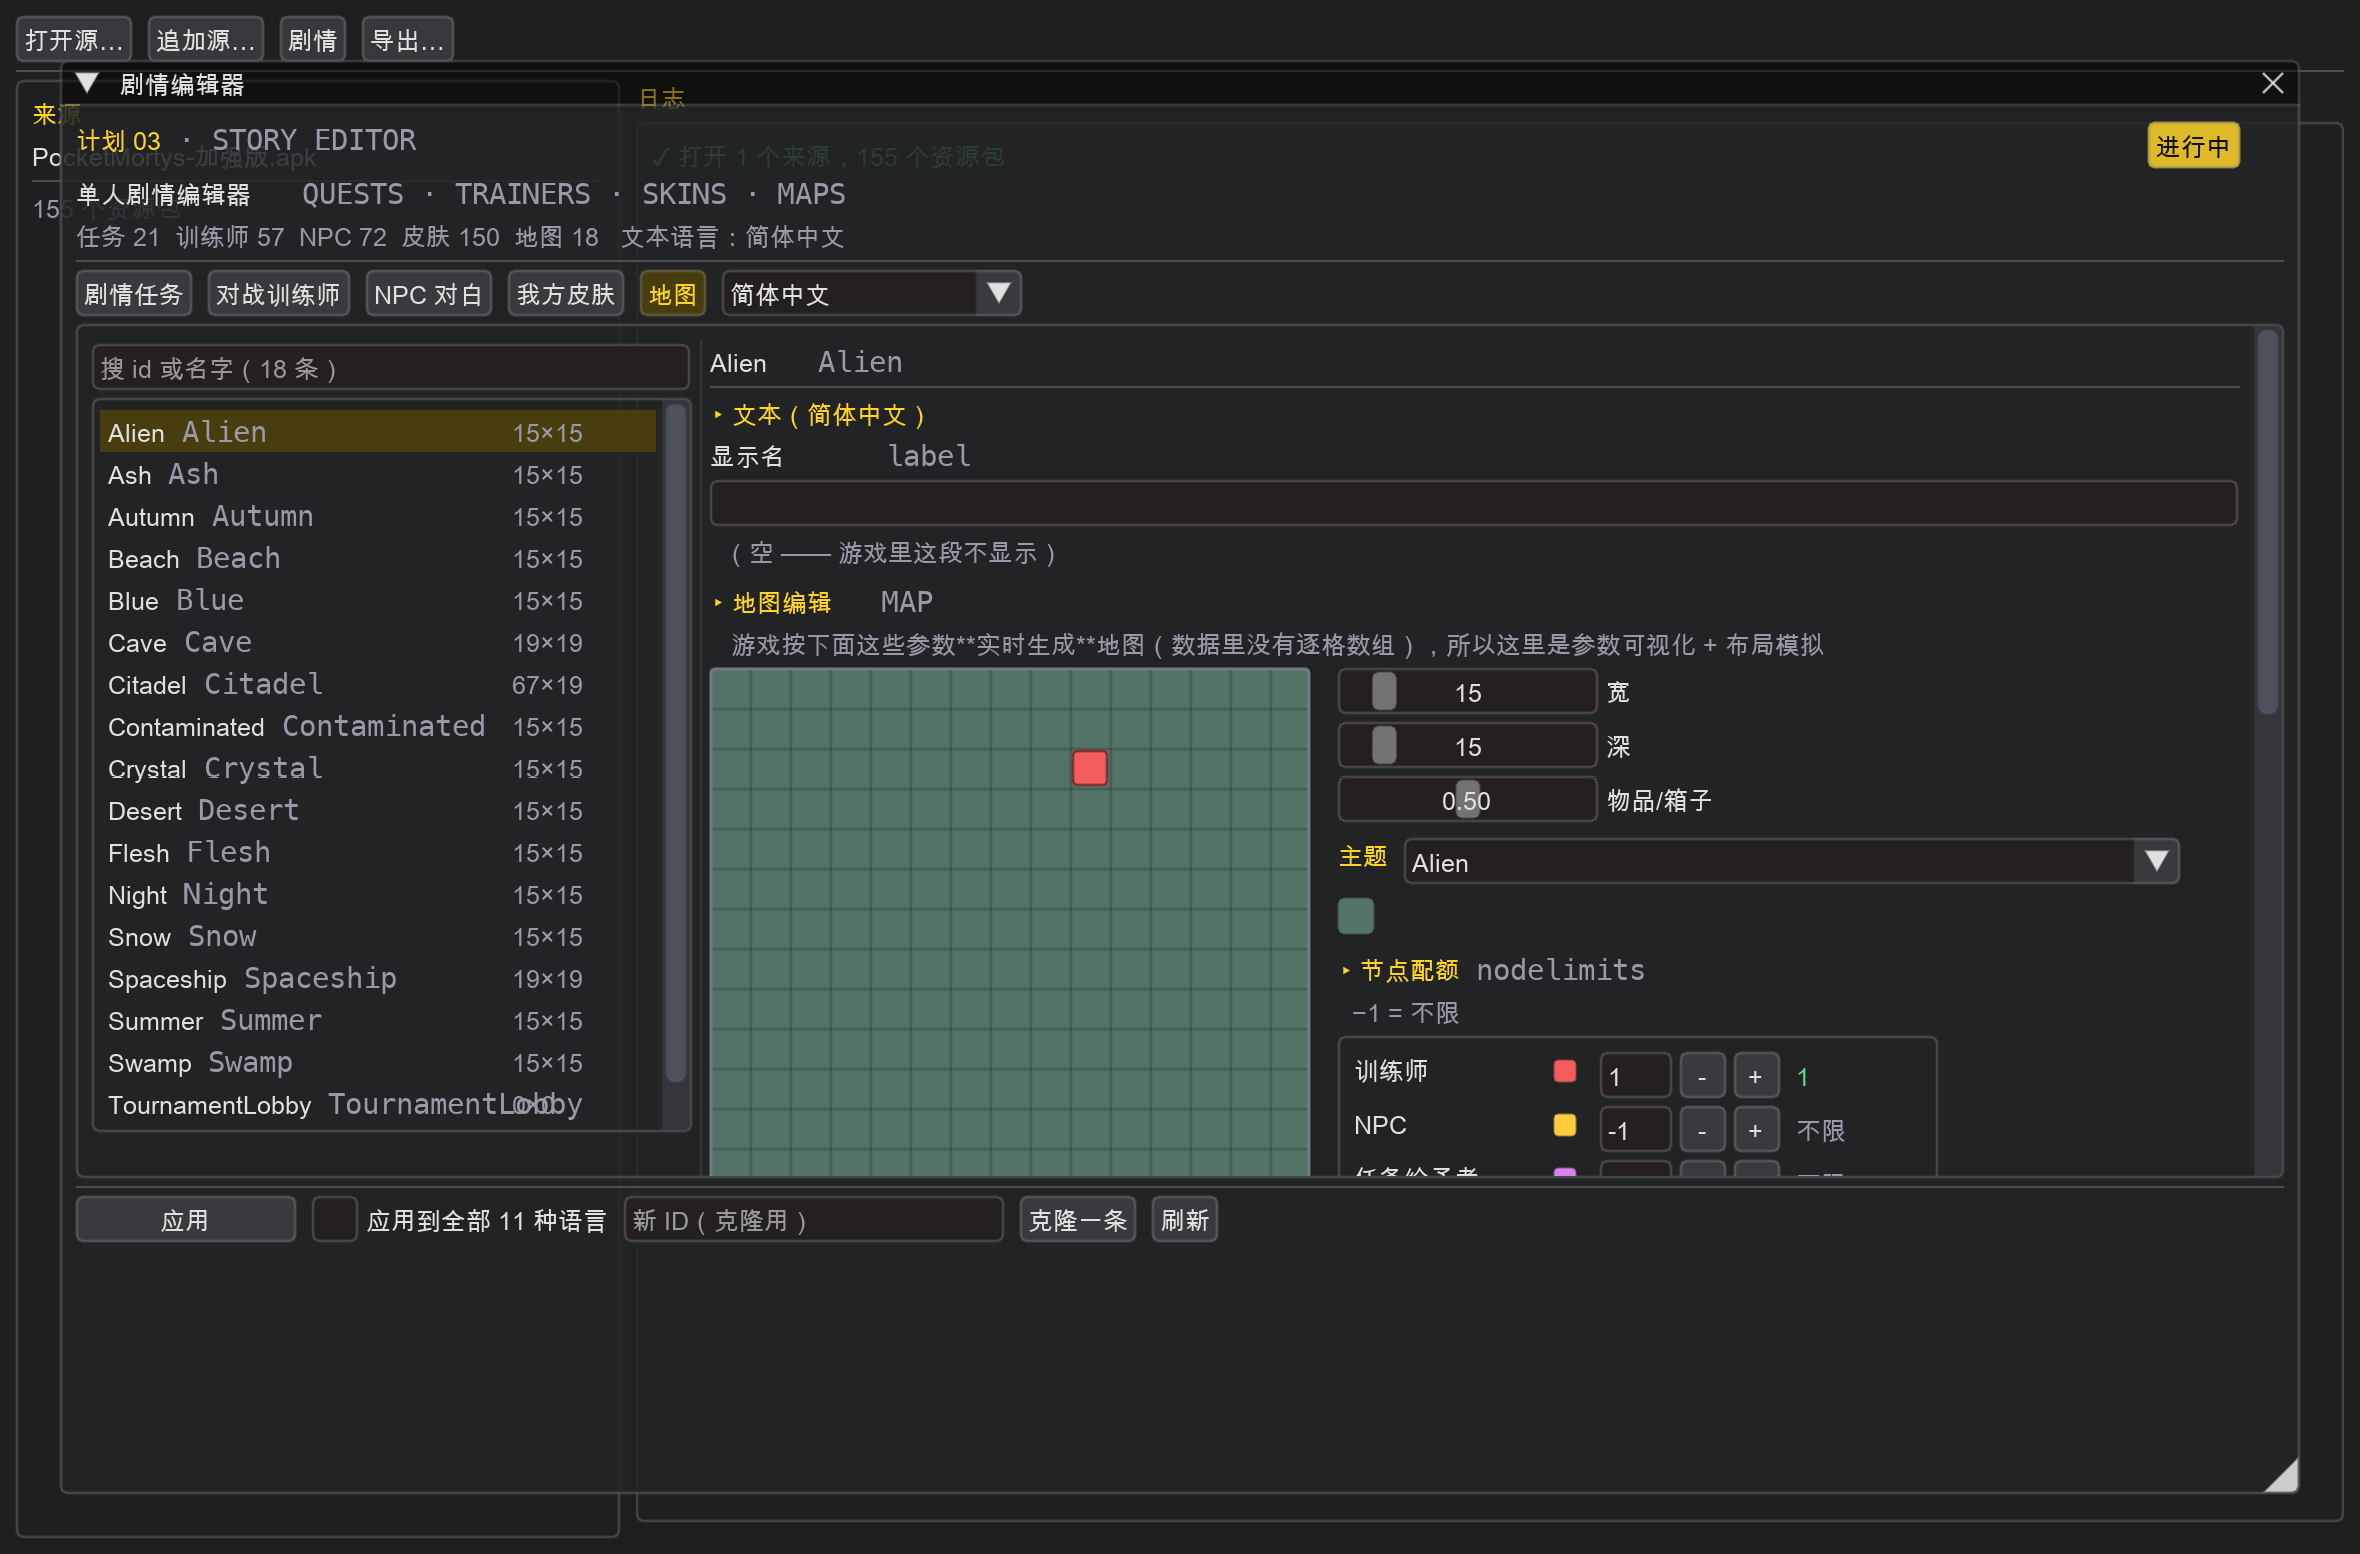
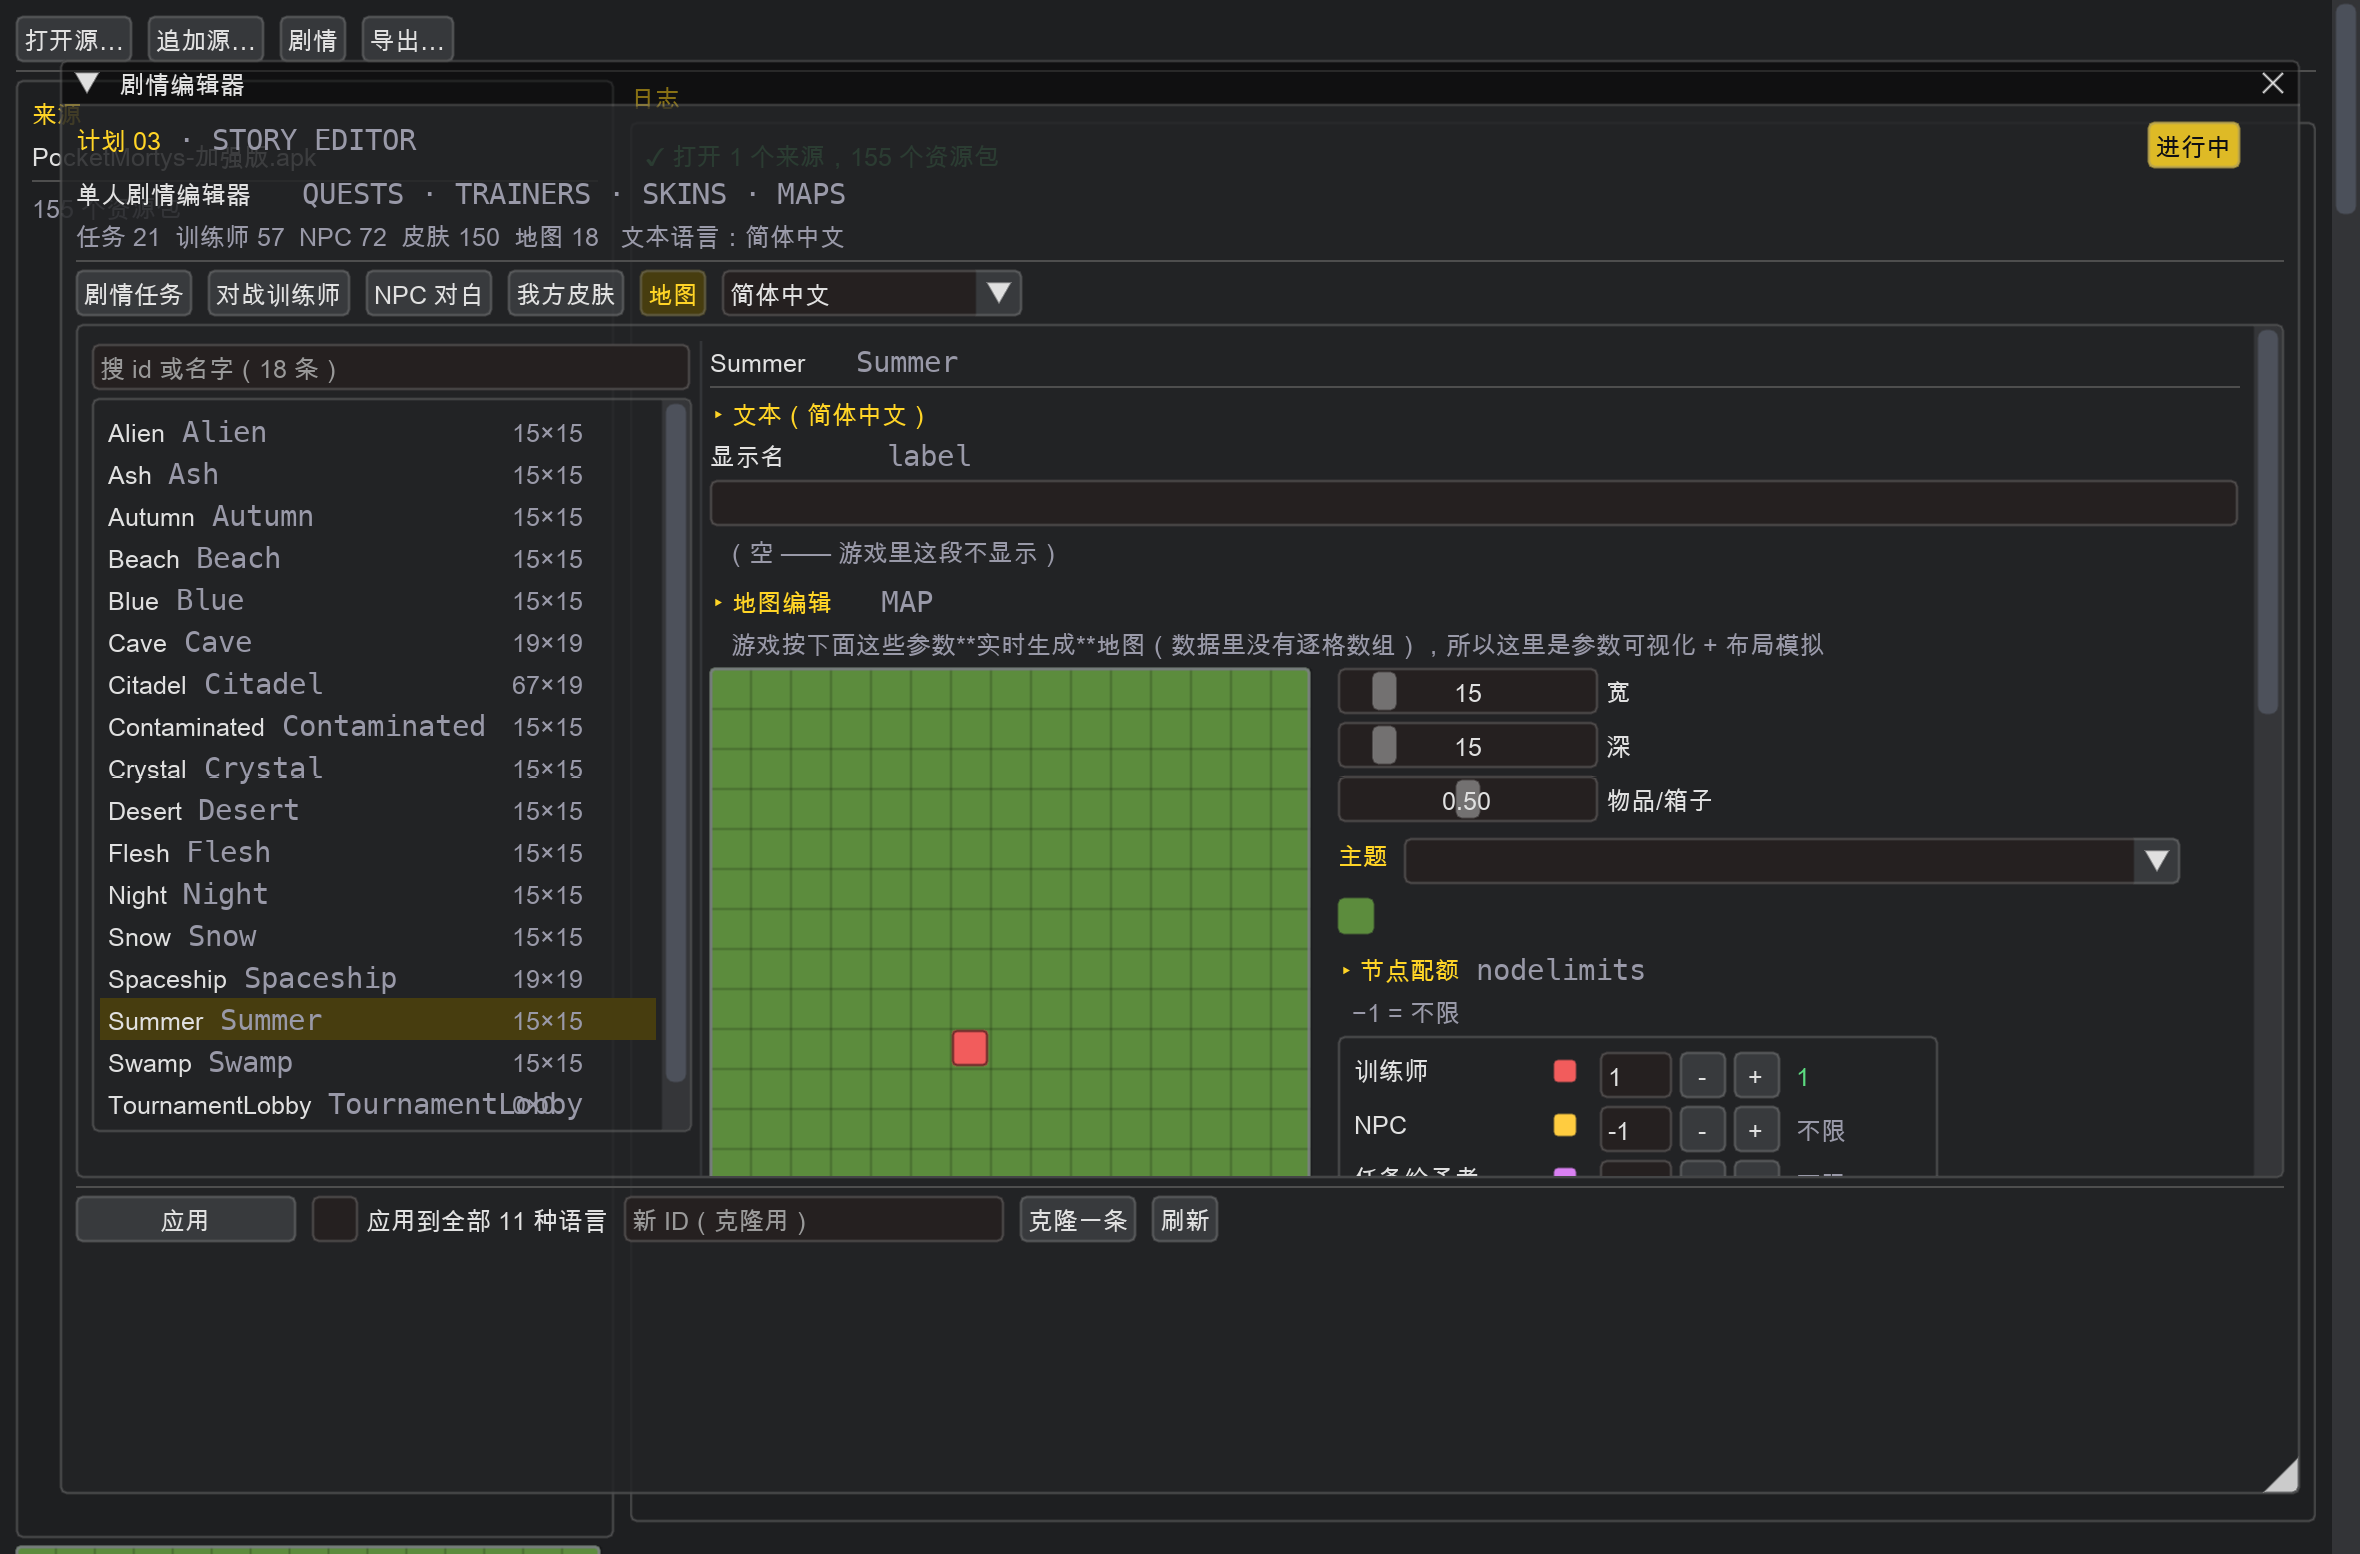
修地图画布在 0×0 地图上崩溃
TournamentLobby 的 segmentwidth/depth 都是 0，_draw_map_canvas 里
尺寸无效时直接 return（返回 None），调用方解包就 TypeError。

改成照样返回三元组，并给一句说明：「这张地图没有尺寸（0×0）—— 它不在
世界里生成，是直接挂场景的，改改主题就行」。

顺带两件事：
- 自检加了边界遍历：18 张地图全过一遍画布，并且断言返回值必须是三元组。
  原来只挑第一张 15×15 的，正好绕过所有边界。扫描是只读的（保存/恢复
  st_map），不污染编辑器状态。
- 加了 PM_STORY_SEL 指定选中项，方便定位这类「只有某一条会崩」的问题。

diff --git a/app/main.py b/app/main.py
@@ -309,12 +309,39 @@ class StoryApp:
             self.st_tab = tab
             rows = self._st_rows()
             assert rows, f"「{tab}」读不到条目"
-            if self.st_sel not in [r["id"] for r in rows]:
+            want = os.environ.get("PM_STORY_SEL")
+            if want and any(r["id"] == want for r in rows):
+                self.st_sel = want
+            elif self.st_sel not in [r["id"] for r in rows]:
                 self.st_sel = next((r["id"] for r in rows if r.get("team_n")), rows[0]["id"])
             self.st_loaded = ""
             self._st_load()
             assert self.st_fields, f"「{tab}」读不到文本"
             if tab == "world":
+                # 边界：18 张地图全过一遍 —— 有 0×0 的、没主题的、limits 空的。
+                # 只挑第一张（15×15）是发现不了这些的，TournamentLobby 就是 0×0。
+                from storykit import story as ST
+                from storykit import worldmap as WM
+
+                saved = self.st_map
+                bad = []
+                for wr in ST.read_table(self.sess, "WorldInfo").items():
+                    wid, row = wr
+                    m = WM.from_row(dict(row, id=wid) if "id" not in row else row)
+                    m["id"] = wid
+                    self.st_map = m
+                    try:
+                        r = self._draw_map_canvas(m, 300.0)   # 直接调，验证不崩
+                        assert isinstance(r, tuple) and len(r) == 3, \
+                            f"{wid} 画布返回值不对: {r!r}"
+                    except Exception as exc:  # noqa: BLE001
+                        bad.append(f"{wid}: {type(exc).__name__}: {exc}")
+                    # 写回的格式也要能过
+                    WM.format_limits(m.get("limits") or {})
+                    WM.to_row_patch(m)
+                self.st_map = saved          # 扫描是**只读**的，别污染编辑器状态
+                assert not bad, f"地图画布在这些世界上崩了: {bad[:3]}"
+                print(f"[自检] 地图画布：18 张全过（含 0×0 的 TournamentLobby）", flush=True)
                 assert getattr(self, "st_map", None), "地图状态没建起来"
                 assert self.st_map.get("limits"), "nodelimits 没解析出来"
                 print(f"[自检] 地图：{self.st_map['id']} "
@@ -753,6 +780,12 @@ class StoryApp:
         if not st:
             _text_colored(DIM, "这条地图没有可用参数。")
             return
+        # 主题调色板懒加载（有些世界没有主题）
+        if not getattr(self, "_st_themes", None):
+            from storykit import worldmap as WM
+
+            self._st_themes = WM.all_themes(
+                [WM.from_row(r) for r in (self._st_overview().worlds or [])]) or [""]
 
         _text_colored(YELLOW, "▸ 地图编辑")
         imgui.same_line()
@@ -853,8 +886,12 @@ class StoryApp:
 
         w, h = int(st["w"]), int(st["h"])
         if w <= 0 or h <= 0:
-            _text_colored(DIM, "尺寸无效")
-            return
+            # 有几张地图就是 0×0（TournamentLobby），别当异常 ——
+            # 但**必须照样返回三元组**，外面是解包调用的（踩过）
+            _text_colored(DIM, f"这张地图没有尺寸（{w}×{h}）—— 它不在世界里生成，"
+                               f"是直接挂场景的，改改主题就行")
+            imgui.dummy(imgui.ImVec2(max(200.0, width), 60))
+            return max(200.0, width), 60.0, 0
         cell = max(6.0, min(20.0, min((width - 8) / max(1, w), 330.0 / max(1, h))))
         cw, chh = cell * w, cell * h
         p0 = imgui.get_cursor_screen_pos()

diff --git a/README.md b/README.md
@@ -71,6 +71,15 @@ Pocket Mortys **单人剧情**编辑器 —— 改任务对白、对战训练师
 
 右侧调完参数，点底部「应用」写回 `WorldInfo`，再「导出」就生效。
 
+### 有些地图是 0×0
+
+`TournamentLobby` 的尺寸就是 **0×0**（它就是竞技场大厅，不在世界里生成，
+直接挂场景）。选中这种地图时画布会说明情况，不画网格：
+
+![无尺寸的地图](docs/界面截图-剧情-地图-无尺寸.png)
+
+改改主题就行，尺寸那两条滑条对它没意义。
+
 ## 为什么有两套数据
 
 游戏把单机剧情拆在**两个地方**，改的时候两边都得动：
